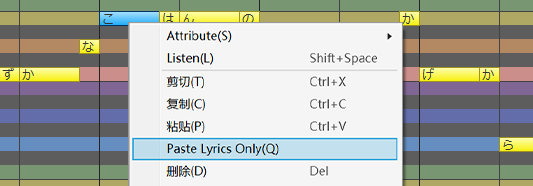
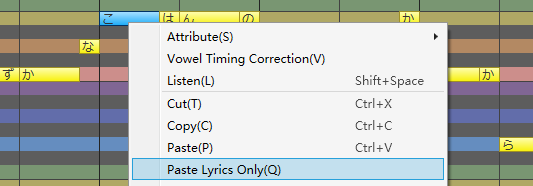
update: song_02, song_02(en)

Changed region(s): [[0.2402, 0.1075, 0.8705, 1.0], [0.3002, 0.2688, 0.7205, 0.3495], [0.3002, 0.1613, 0.4503, 0.2419]]

diff --git a/site/songtrack/song_02/index.html b/site/songtrack/song_02/index.html
@@ -514,7 +514,7 @@
 </li>
 <li class="md-nav__item">
 <a class="md-nav__link" href="#_8">
-    只粘贴歌词
+    仅粘贴歌词
   </a>
 </li>
 </ul>
@@ -801,7 +801,7 @@
 </li>
 <li class="md-nav__item">
 <a class="md-nav__link" href="#_8">
-    只粘贴歌词
+    仅粘贴歌词
   </a>
 </li>
 </ul>
@@ -880,8 +880,8 @@
 <p><a class="glightbox" data-desc-position="bottom" data-height="auto" data-width="100%" href="../images/song_02_5.png"><img alt="copy and paste note" src="../images/song_02_5.png"/></a></p>
 <h3 id="_7">连同音符的参数一并复制与粘贴</h3>
 <p>使用<a href="../song_05">范围选择工具</a>圈定范围后复制，可以一并复制范围内的音符调整值、节拍、强弱记号等参数。之后，利用光标指定位置并粘贴，便可轻松地再现原始的音符和调整值。</p>
-<h3 id="_8">只粘贴歌词</h3>
-<p>复制音符后，在想要粘贴歌词的音符上调出鼠标右键菜单，然后选择「只粘贴歌词」。</p>
+<h3 id="_8">仅粘贴歌词</h3>
+<p>复制音符后，在想要粘贴歌词的音符上调出鼠标右键菜单，然后选择「仅粘贴歌词」。</p>
 <p>歌词将反映在相对开始时间与复制源一致的音符上。请活用该功能，例如，使用该功能来创建合唱轨道。</p>
 <p><a class="glightbox" data-desc-position="bottom" data-height="auto" data-width="100%" href="../images/song_02_6.png"><img alt="score note paste lyrics" src="../images/song_02_6.png"/></a></p>
 <h2 id="timing">简易 TIMING 显示</h2>

diff --git a/site/zh/songtrack/song_02/index.html b/site/zh/songtrack/song_02/index.html
@@ -514,7 +514,7 @@
 </li>
 <li class="md-nav__item">
 <a class="md-nav__link" href="#_8">
-    只粘贴歌词
+    仅粘贴歌词
   </a>
 </li>
 </ul>
@@ -801,7 +801,7 @@
 </li>
 <li class="md-nav__item">
 <a class="md-nav__link" href="#_8">
-    只粘贴歌词
+    仅粘贴歌词
   </a>
 </li>
 </ul>
@@ -880,8 +880,8 @@
 <p><a class="glightbox" data-desc-position="bottom" data-height="auto" data-width="100%" href="../images/song_02_5.png"><img alt="copy and paste note" src="../images/song_02_5.png"/></a></p>
 <h3 id="_7">连同音符的参数一并复制与粘贴</h3>
 <p>使用<a href="../song_05">范围选择工具</a>圈定范围后复制，可以一并复制范围内的音符调整值、节拍、强弱记号等参数。之后，利用光标指定位置并粘贴，便可轻松地再现原始的音符和调整值。</p>
-<h3 id="_8">只粘贴歌词</h3>
-<p>复制音符后，在想要粘贴歌词的音符上调出鼠标右键菜单，然后选择「只粘贴歌词」。</p>
+<h3 id="_8">仅粘贴歌词</h3>
+<p>复制音符后，在想要粘贴歌词的音符上调出鼠标右键菜单，然后选择「仅粘贴歌词」。</p>
 <p>歌词将反映在相对开始时间与复制源一致的音符上。请活用该功能，例如，使用该功能来创建合唱轨道。</p>
 <p><a class="glightbox" data-desc-position="bottom" data-height="auto" data-width="100%" href="../images/song_02_6.png"><img alt="score note paste lyrics" src="../images/song_02_6.png"/></a></p>
 <h2 id="timing">简易 TIMING 显示</h2>

diff --git a/site/intro/change-log/index.html b/site/intro/change-log/index.html
@@ -1150,7 +1150,7 @@
 <li>
 <p>使用日语歌唱声库编辑歌词时，如果输入的是英文歌词，则不会打开输入法。</p>
 </li>
-<li>修复了在只粘贴歌词、合并音符、移动音符等特定情况下会弹出错误窗口的错误。</li>
+<li>修复了在仅粘贴歌词、合并音符、移动音符等特定情况下会弹出错误窗口的错误。</li>
 </ul>
 <p>▼语音相关</p>
 <ul>
@@ -1169,7 +1169,7 @@
 <ul>
 <li>歌唱引擎更新到 6.1.4。音质没有变化。</li>
 <li>
-<p>实装「只粘贴歌词」功能。</p>
+<p>实装「仅粘贴歌词」功能。</p>
 <p><a class="glightbox" data-desc-position="bottom" data-height="auto" data-width="100%" href="../images/2022_8_7_V8.3_score_note_paste_lyrics.png"><img alt="score note paste lyrics" src="../images/2022_8_7_V8.3_score_note_paste_lyrics.png"/></a></p>
 <p>※复制音符后，请在想要粘贴歌词的音符上调出鼠标右键菜单。</p>
 <p>※歌词将反映在相对开始时间与复制源一致的音符上。请活用该功能，例如，使用该功能来创建合唱轨道。</p>

diff --git a/site/zh/intro/change-log/index.html b/site/zh/intro/change-log/index.html
@@ -1150,7 +1150,7 @@
 <li>
 <p>使用日语歌唱声库编辑歌词时，如果输入的是英文歌词，则不会打开输入法。</p>
 </li>
-<li>修复了在只粘贴歌词、合并音符、移动音符等特定情况下会弹出错误窗口的错误。</li>
+<li>修复了在仅粘贴歌词、合并音符、移动音符等特定情况下会弹出错误窗口的错误。</li>
 </ul>
 <p>▼语音相关</p>
 <ul>
@@ -1169,7 +1169,7 @@
 <ul>
 <li>歌唱引擎更新到 6.1.4。音质没有变化。</li>
 <li>
-<p>实装「只粘贴歌词」功能。</p>
+<p>实装「仅粘贴歌词」功能。</p>
 <p><a class="glightbox" data-desc-position="bottom" data-height="auto" data-width="100%" href="../images/2022_8_7_V8.3_score_note_paste_lyrics.png"><img alt="score note paste lyrics" src="../images/2022_8_7_V8.3_score_note_paste_lyrics.png"/></a></p>
 <p>※复制音符后，请在想要粘贴歌词的音符上调出鼠标右键菜单。</p>
 <p>※歌词将反映在相对开始时间与复制源一致的音符上。请活用该功能，例如，使用该功能来创建合唱轨道。</p>

diff --git a/docs/en/songtrack/song_02.md b/docs/en/songtrack/song_02.md
@@ -16,15 +16,15 @@ To input a note, select the draw tool from the edit tools.
 
 On the piano roll, move to the right from where you want to place the note (hold down the left mouse button) to determine the length of that note.
 
-When performing a note input, move or paste operation, if a note overlaps with another note on the same track, that note will be automatically shortened. (Optional. You can select "Do not erase existing notes when entering notes" in the options.)
-
-The very first bar (bar 0) does not allow notes input.
+Click on the scale and character assigned to this track will sing this key.
 
 ![enter note](images/song_02_1.png)
 
-When a note is entered, the phoneme and vocal time of the lyrics are displayed below it. The timing can be adjusted here.
+\* The very first bar (bar 0) does not allow notes input.
 
-Click on the scale and character assigned to this track will sing this key.
+\* When performing a note input, move or paste operation, if a note overlaps with another note on the same track, that note will be automatically shortened. (Optional. You can select "Do not erase existing notes when entering notes" in the options.)
+
+<!-- When a note is entered, the phoneme and vocal time of the lyrics are displayed below it. The timing can be adjusted here. -->
 
 !!! tip "Hint for note input"
     It is not recommended to use the tiny gaps between the notes to express the sokuon (っ, small tsu), or to use the position of the notes to express the timing of the vocalization.
@@ -51,7 +51,7 @@ Select the selection tool or the draw tool from the edit tool and drag the note 
 
 Hold down the ++shift++ key while dragging to move the note horizontally or vertically.
 
-When multiple notes are selected at the same time, you can move them together.
+<!-- When multiple notes are selected at the same time, you can move them together. -->
 
 Alternatively, hold down ++alt++ while dragging to copy the selected note.
 
@@ -65,9 +65,13 @@ After selecting notes, drag with the mouse or move them with ++up++ or ++down++ 
 
 Use the [Collectively Selection Tool](../song_05) to specify the range, and then move them, the notes in the selection range will move together with their parameters.
 
-!!! tip "Automatic collectively selection and how to evade"
+\* Hold down the ++shift++ key while dragging to move the note horizontally or vertically.
 
-    If you move notes which have been adjusted parameters, they will automatically be collectively selected and the parameters will follow, even if you move them with a tool other than the collectively selection tool. At this time, if you hold down the ++alt++ key and move a note vertically, this note will not be collectively selected, and the adjusted pitch will remain in the original place.
+!!! tip "Auto Collectively Selection"
+
+    If you move notes which have been adjusted parameters, they will automatically be collectively selected and the parameters will follow, even if you move them with a tool other than the Collectively Selection Tool. At this time, if you hold down the ++alt++ key and move a note vertically, this note will not be collectively selected, and the adjusted pitch will remain in the original place.
+
+    \* You can turn it off from the "Song" menu or the right-click menu "Other Operations".
 
 ## Copy and Paste Note
 
@@ -83,10 +87,6 @@ Then, select "Paste" from the right-click menu to paste the notes at the cursor 
 
 ![copy and paste note](images/song_02_5.png)
 
-### Copy and Paste Note with Parameters
-
-By using the [Collectively Selection Tool](../song_05) to specify the range and copy, you can also copy the note adjustment value, beat, dynamics marks and other parameters within the range. Afterwards, by specifying the position with the cursor and pasting, you can easily reproduce the original notes and adjustment values.
-
 ### Paste Lyrics Only
 
 After copying a note, you can select "Paste Lyrics Only" from the right-click menu of the note you want to paste the lyrics to.
@@ -97,13 +97,27 @@ The lyrics will be applied to the note whose relative time matches that of the s
 
 You can also edit phoneme symbols by double-clicking on a note with "Enter lyrics by phoneme" on, or from the note properties.
 
+### Copy and Paste Note with Parameters
+
+By using the [Collectively Selection Tool](../song_05) to specify the range and copy, you can also copy the note adjustment value, beat, dynamics marks and other parameters within the range. Afterwards, by specifying the position with the cursor and pasting, you can easily reproduce the original notes and adjustment values.
+
+### Mix Copy
+
+After selecting a range using the Collectively Selection Tool (or the Selection Tool in the adjustment screen), you can copy the parameters, including the default values, by using the "Copy Mix" option in the right-click menu or by using the shortcut key ++ctrl+shift+c++.
+
+With Collectively Selection + Mix Copy, you can easily duplicate some or all of the notes and parameters of a track to another position/track. For example, you can adjust the singing of a song for one cast and then paste it onto another cast to let they sing.
+
+\* Due to the reflected adjustment value, there may be instances where applying parameters to a different cast may result in suboptimal singing quality. Even the same cast may not perform identically in a different location as the original copy source. Therefore, it is recommended to readjust the parameters as necessary to achieve the desired outcome.
+
+![mix copy](images/song_02_V8.4.5_mixcopy.png)
+
 ## Simple TIMING Display
 
 When notes are entered, the lyrics' phoneme symbols and vocal timing are displayed in black bands at the bottom of the screen, which allow simple timing adjustments, etc.
 
 ![timing adjust](images/song_02_7.png)
 
-\* Turn off "Timing Edit on Score" in "Song" under "Option" to hide it.
+\* If the screen is narrow, you can hide it by turning off "Timing Edit on Score" in "Song" under ["Option"](../../option/option).
 
 ### Simple TIMING Adjustment
 
@@ -117,4 +131,4 @@ Double-click on the phoneme symbols displayed on TIMING to edit the phoneme.
 
 ![timing adjust](images/song_02_8.png)
 
-\* You can also edit phoneme symbols by turning on "Enter Lyrics with Phoneme" and then double-clicking on a note, or by using the note properties.
+<!-- \* You can also edit phoneme symbols by turning on "Enter Lyrics with Phoneme" and then double-clicking on a note, or by using the note properties. -->

diff --git a/docs/zh/songtrack/song_02.md b/docs/zh/songtrack/song_02.md
@@ -16,15 +16,15 @@ layout: post
 
 在钢琴卷帘上，从放置音符的地方左右拖拽（按住鼠标左键并移动）来决定音符的长度。
 
-在执行音符的输入、移动或粘贴的操作时，若音符与同一轨道的其他音符重叠，则其他音符会自动缩短。（可选项。可以在选项中选择「输入音符时不调整会重叠的音符」。）
-
-最开始的小节（第 0 小节）不允许输入音符。
+在键盘上单击，该轨道的角色会唱出当前音阶上的这个音。
 
 ![enter note](images/song_02_1.png)
 
-输入音符后，它的下方会显示歌词的音素和发声时间。可以在这里调整时间。
+\* 最开始的小节（第 0 小节）不允许输入音符。
 
-在键盘上单击，该轨道的角色会唱出当前音阶上的这个音。
+\* 在执行音符的输入、移动或粘贴的操作时，若音符与同一轨道的其他音符重叠，则其他音符会自动缩短。（可选项。可以在选项中选择「输入音符时不调整会重叠的音符」。）
+
+<!-- 输入音符后，它的下方会显示歌词的音素和发声时间。可以在这里调整时间。 -->
 
 !!! tip "音符输入的提示"
 
@@ -52,7 +52,7 @@ layout: post
 
 拖拽时按住 ++shift++ 键，可以水平或垂直移动音符。
 
-同时选中多个音符时可以一并移动它们。
+<!-- 同时选中多个音符时可以一并移动它们。 -->
 
 另外，拖拽时按住 ++alt++ 键可以复制选择的音符。
 
@@ -66,9 +66,13 @@ layout: post
 
 使用[范围选择工具](../song_05)圈定范围，然后移动它们，则选择范围内的音符会连同它们的参数一并移动。
 
-!!! tip "自动范围选择与回避方法"
+\* 拖拽时按住 ++shift++ 键，可以水平或垂直移动音符。
+
+!!! tip "自动范围选择"
 
     若移动的音符是已经调整过参数的音符，则它们会自动被范围选中并连带参数一起移动，即使移动它们的工具并不是范围选择工具。这时只要按住 ++alt++ 键再垂直移动，它们就不会被范围选择，它们的参数也就会留在原地。
+
+    \* 可以通过「歌唱」菜单或右键菜单的「其他操作」来关闭自动范围选择。
 
 ## 复制与粘贴音符
 
@@ -84,17 +88,27 @@ layout: post
 
 ![copy and paste note](images/song_02_5.png)
 
-### 连同音符的参数一并复制与粘贴
+### 仅粘贴歌词
 
-使用[范围选择工具](../song_05)圈定范围后复制，可以一并复制范围内的音符调整值、节拍、强弱记号等参数。之后，利用光标指定位置并粘贴，便可轻松地再现原始的音符和调整值。
-
-### 只粘贴歌词
-
-复制音符后，在想要粘贴歌词的音符上调出鼠标右键菜单，然后选择「只粘贴歌词」。
+复制音符后，在想要粘贴歌词的音符上调出鼠标右键菜单，然后选择「仅粘贴歌词」。
 
 歌词将反映在相对开始时间与复制源一致的音符上。请活用该功能，例如，使用该功能来创建合唱轨道。
 
 ![score note paste lyrics](images/song_02_6.png)
+
+### 连同音符的参数一并复制与粘贴
+
+使用[范围选择工具](../song_05)圈定范围后复制，可以一并复制范围内的音符调整值、节拍、强弱记号等参数。之后，利用光标指定位置并粘贴，便可轻松地再现原始的音符和调整值。
+
+### 混合复制
+
+使用范围选择工具（或在调整界面使用选择工具）选择时，从右键菜单选择“混合复制”选项或是使用快捷键 ++ctrl+shift+c++，可以连同参数一同复制，包括默认值。
+
+将范围选择工具搭配混合复制使用，就可以轻松地将音轨的部分或是全部音符，连同它们的参数一同粘贴到另一个位置或是另一条轨道。也可以将某位歌手调整过的歌声粘贴到其他歌手上来歌唱。
+
+\* 由于应用的是调整值，可能会有将参数应用给某位歌手后，歌手的演唱质量欠佳的情况。即使是同一位歌手，在另一个位置也可能唱得与原始位置的声音不同。请根据需要重新调整参数，以达到预期效果。
+
+![mix copy](images/song_02_V8.4.5_mixcopy.png)
 
 ## 简易 TIMING 显示
 
@@ -102,13 +116,13 @@ layout: post
 
 ![timing adjust](images/song_02_7.png)
 
-※关闭「选项」中的「歌唱设定」下的「在乐谱编辑页面调整时间（TMG）」可以隐藏 TMG 线。
+※画面过于狭窄时，关闭[选项](../../option/option)中的「歌唱设定」下的「在乐谱编辑页面调整时间（TMG）」可以将其隐藏。
 
 ### 简易 TIMING 调整
 
 切换到画笔工具时，将鼠标移到黑带上就可以看到辅音与元音的 TMG 线；向左或右拖动以调整发声时机。
 
-默认以音符为单位调整。按下 ++ctrl+p++ 或在歌唱菜单栏里选择「以音素输入歌词」，可以将 TMG 的单位切换为音素。按住 ++alt++ 键可以暂时切换。
+默认以音符为单位调整。歌唱菜单栏里选择「以音素输入歌词」（或按下 ++ctrl+p++），可以将 TMG 的单位切换为音素。按住 ++alt++ 键可以暂时切换。
 
 ### 指定音素记号
 
@@ -116,4 +130,4 @@ layout: post
 
 ![timing adjust](images/song_02_8.png)
 
-※也可以通过切换到「按音素输入歌词」然后双击音符的方式，或通过音符属性来编辑音素。
+<!-- ※也可以通过切换到「按音素输入歌词」然后双击音符的方式，或通过音符属性来编辑音素。 -->

diff --git a/docs/zh/songtrack/songtrack_copy.md b/docs/zh/songtrack/songtrack_copy.md
@@ -14,8 +14,6 @@ layout: post
 
 在标尺栏的右键菜单里可以切换每一项的显示与否。
 
-<span style="color: red">※曲速和拍子默认隐藏。若想在歌曲中间修改曲速或拍子，请将它们设为显示。</span>
-
 ![setting](images/songtrack_copy_1.png)
 
 ## 曲速的设置
@@ -75,12 +73,18 @@ layout: post
 
 ※效果从指定的位置持续到下一个强弱记号。音量也会改变。
 
+!!! new
+
+    从版本 8.3.2.0 起, 你可以设置新的强弱记号「fff」「ffff」「ppp」「pppp」。
+  
+    ※受角色和乐谱的影响，跟「ff」「pp」相比，可能会有效果不明显的情况。
+
 在编辑工具里选择选择工具或画笔工具，然后双击强弱记号，便可变更强弱记号。
 
 若想在歌曲中间修改调号，请选择画笔工具，然后在想改变力度的位置双击强弱记号行来设置新的强弱记号。
 
 ![set new dynamics](images/songtrack_copy_5.png)
 
-也可以通过向左或向右拖动（按住鼠标左键移动）或直接在强弱记号属性中指定位置的方式，来移动强弱记号（除了最初的强弱记号外）。
+也可以通过向左或向右拖动（按住鼠标左键移动）或直接在强弱记号属性中指定位置的方式，来移动强弱记号（最初的强弱记号除外）。
 
 ※可以为每条歌唱轨道分别设置强弱记号。

diff --git a/docs/en/songtrack/songtrack_copy.md b/docs/en/songtrack/songtrack_copy.md
@@ -14,8 +14,6 @@ In a new project, there is a default setting for each, located at the beginning 
 
 You can switch between showing and hiding each of these from the right-click menu in the ruler header.
 
-<span style="color: red">\* Tempo and beat are hidden by default. Set to display if you want to change them in the middle of a song.</span>
-
 ![setting](images/songtrack_copy_1.png)
 
 ## Tempo Setting
@@ -72,13 +70,13 @@ You can also move the key (except for the first key) by dragging it left or righ
 
 Setting a dynamic mark can naturally strengthen or weaken the vocalization from this position.
 
-The effect becomes stronger in the order [mf] → [f] → [ff], weaker in the order [mp] → [p] → [pp], with [N] being normal.
+\* The effect becomes stronger in the order [mf] → [f] → [ff], weaker in the order [mp] → [p] → [pp], with [N] being normal.
 
 \* The effect continues from the specified position to the next dynamic mark. The volume will also change.
 
 !!! new
 
-    From version 8.3.2.0, you can set new dynamic marks "ffff" "ffff" "ppp" "pppp".
+    From version 8.3.2.0, you can set new dynamic marks "fff" "ffff" "ppp" "pppp".
 
     \* Depending on the character and score, the effect may not be as obvious compared to "ff" and "pp".
 

diff --git a/docs/zh/intro/change-log.md b/docs/zh/intro/change-log.md
@@ -308,7 +308,7 @@ layout: post
     ※修复了粘贴后鼠标总会移至开始处的现象。
 
 - 使用日语歌唱声库编辑歌词时，如果输入的是英文歌词，则不会打开输入法。
-- 修复了在只粘贴歌词、合并音符、移动音符等特定情况下会弹出错误窗口的错误。
+- 修复了在仅粘贴歌词、合并音符、移动音符等特定情况下会弹出错误窗口的错误。
 
 ▼语音相关
 
@@ -327,7 +327,7 @@ layout: post
 ▼歌唱相关
 
 - 歌唱引擎更新到 6.1.4。音质没有变化。
-- 实装「只粘贴歌词」功能。
+- 实装「仅粘贴歌词」功能。
 
     ![score note paste lyrics](images/2022_8_7_V8.3_score_note_paste_lyrics.png)
 
@@ -455,7 +455,7 @@ layout: post
     
     ※受角色和乐谱的影响，可能会有效果不明显的情况。
 
-- 现支持设置新的强弱记号「ffff」「fff」「ppp」「pppp」。
+- 现支持设置新的强弱记号「fff」「ffff」「ppp」「pppp」。
   
     ※受角色和乐谱的影响，跟「ff」「pp」相比，可能会有效果不明显的情况。
 

diff --git a/docs/en/songtrack/songtrack.md b/docs/en/songtrack/songtrack.md
@@ -44,7 +44,7 @@ Click on the scale and character assigned to this track will sing this key.
 
 ### Simple TIMING Display
 
-Check and adjust the phonemes and vocalization timing of the lyrics. If the screen is narrow, you can hide them in the "Talk Settings" in the Options.
+Check and adjust the phonemes and vocalization timing of the lyrics. If the screen is narrow, you can hide it in the "Talk Settings" in the [Options](../../option/option).
 
 ### Scrollbar
 
